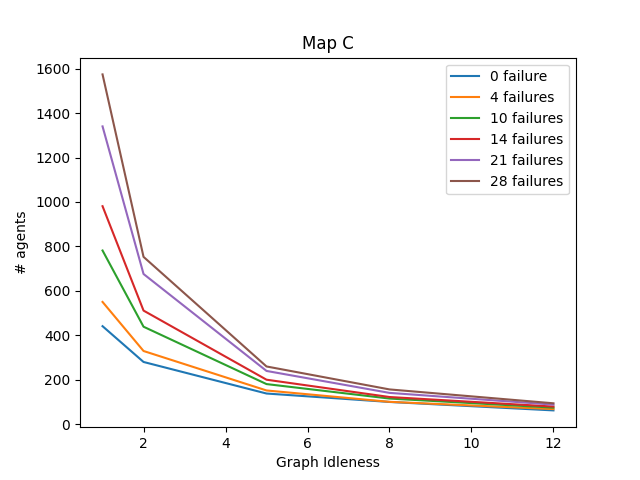
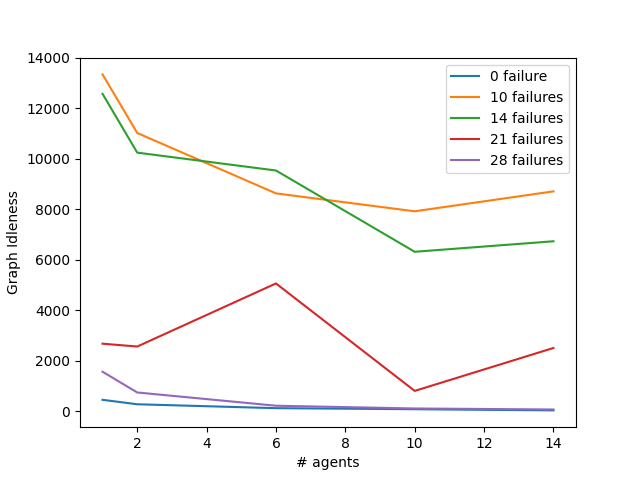
plots added

diff --git a/conscientious_reactive/asymetric_map/graphsmaker/idleness_graphs.py b/conscientious_reactive/asymetric_map/graphsmaker/idleness_graphs.py
@@ -5,9 +5,9 @@ import numpy as np
 import os
 rootdir ='../data_3_updated/'
 
-cars =  [1,2, 5,8,12]
-deads = [0, 4, 10, 14, 21, 28]
-num_runs = 3
+cars =  [1,2,6,10,14]
+deads = [0, 10, 14, 21, 28]
+num_runs = 2
 plt.figure()
 
 for dead in deads:
@@ -27,16 +27,16 @@ for dead in deads:
 		# std.append(np.std(graph_idlness))
 	print(avg)
 	if dead == 0:
-		plt.plot(cars,avg, label =str(dead)+" failure")
+		plt.plot(avg, cars, label =str(dead)+" failure")
 	else:
-		plt.plot(cars,avg, label =str(dead)+" failures")
+		plt.plot(avg, cars, label =str(dead)+" failures")
 	plt.draw()
 
-# plt.plot(cars,avg, 'b--')
+# plt.plot(avg, cars, 'b--')
 # for i in range(len(avgs)):
-# 	plt.plot(cars,avgs[i], label ="no of device failures ="+str(i*2))
-# plt.errorbar(cars,avg,yerr=std,  fmt='o', ecolor='g', capthick=1.0)
-plt.title("Map C")
+# 	plt.plot(avg, carss[i], label ="no of device failures ="+str(i*2))
+# plt.errorbar(avg, cars,yerr=std,  fmt='o', ecolor='g', capthick=1.0)
+# plt.title("Map C")
 plt.ylabel("# agents")
 plt.xlabel("Graph Idleness")
 plt.legend()

diff --git a/conscientious_reactive/dual_failure_random_dead_asymmetric_length/graphsmaker/idleness_graphs.py b/conscientious_reactive/dual_failure_random_dead_asymmetric_length/graphsmaker/idleness_graphs.py
@@ -27,18 +27,18 @@ for dead in deads:
 		# std.append(np.std(graph_idlness))
 	print(avg)
 	if dead == 0: 
-		plt.plot(cars,avg, label =str(dead)+" failure")
+		plt.plot(avg, cars, label =str(dead)+" failure")
 	else:
-		plt.plot(cars,avg, label =str(dead)+" failures")
+		plt.plot(avg, cars, label =str(dead)+" failures")
 	plt.draw()
 
 # plt.plot(cars,avg, 'b--')
 # for i in range(len(avgs)):
 # 	plt.plot(cars,avgs[i], label ="no of device failures ="+str(i*2))
 # plt.errorbar(cars,avg,yerr=std,  fmt='o', ecolor='g', capthick=1.0)
-plt.title("Map B")
-plt.xlabel("# agents")
-plt.ylabel("Graph Idleness")
+# plt.title("Map B")
+plt.ylabel("# agents")
+plt.xlabel("Graph Idleness")
 plt.legend()
 # plt.show()
 plt.savefig('result2.png', dpi = 100)

diff --git a/conscientious_reactive/dual_failure_random_dead/graphsmaker/idleness_graphs.py b/conscientious_reactive/dual_failure_random_dead/graphsmaker/idleness_graphs.py
@@ -27,18 +27,18 @@ for dead in deads:
 		# std.append(np.std(graph_idlness))
 	print(avg)
 	if dead == 0:
-		plt.plot(cars,avg, label =str(dead)+" failure")
+		plt.plot(avg, cars, label =str(dead)+" failure")
 	else:
-		plt.plot(cars,avg, label =str(dead)+" failures")
+		plt.plot(avg, cars, label =str(dead)+" failures")
 	plt.draw()
 
 # plt.plot(cars,avg, 'b--')
 # for i in range(len(avgs)):
 # 	plt.plot(cars,avgs[i], label ="no of device failures ="+str(i*2))
 # plt.errorbar(cars,avg,yerr=std,  fmt='o', ecolor='g', capthick=1.0)
-plt.title("Map A")
-plt.xlabel("# agents")
-plt.ylabel("Graph Idleness")
+# plt.title("Map A")
+plt.ylabel("# agents")
+plt.xlabel("Graph Idleness")
 plt.legend()
 # plt.show()
 plt.savefig('result1.png', dpi = 100)

diff --git a/conscientious_reactive/compare_idleness.py b/conscientious_reactive/compare_idleness.py
@@ -64,7 +64,7 @@ for dead in deads:
 # for i in range(len(avgs)):
 # 	plt.plot(avg,carss[i], label ="no of device failures ="+str(i*2))
 # plt.errorbar(avg,cars,yerr=std,  fmt='o', ecolor='g', capthick=1.0)
-plt.title("Idleness comparison b/w Map A and B")
+# plt.title("Idleness comparison b/w Map A and B")
 plt.ylabel("# agents")
 plt.xlabel("Graph Idleness")
 plt.legend()
